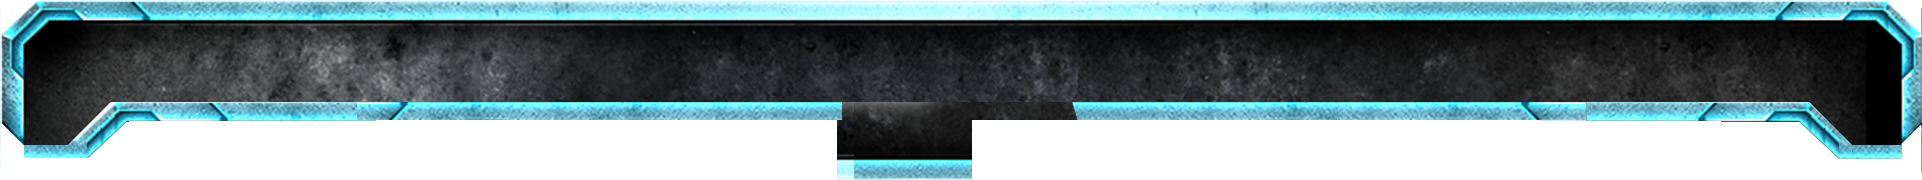
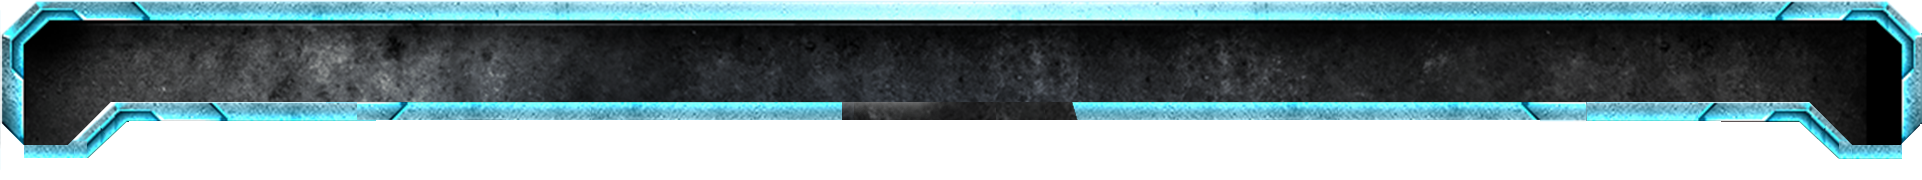
3

Changed region(s): [[0.437, 0.6667, 0.5307, 1.0], [0.999, 0.6667, 1.0, 0.9722], [0.999, 0.0278, 1.0, 0.1944]]

diff --git a/styles.css b/styles.css
@@ -26,7 +26,7 @@
   display: flex;
   justify-content: space-around;
   align-items: center;
-  background: url('./images/slide__bottom-bg.png') no-repeat center / cover;
+  background: url('./images/slide__bottom-bg.png') no-repeat center / contain;
 }
 
 .slide__top-label {
